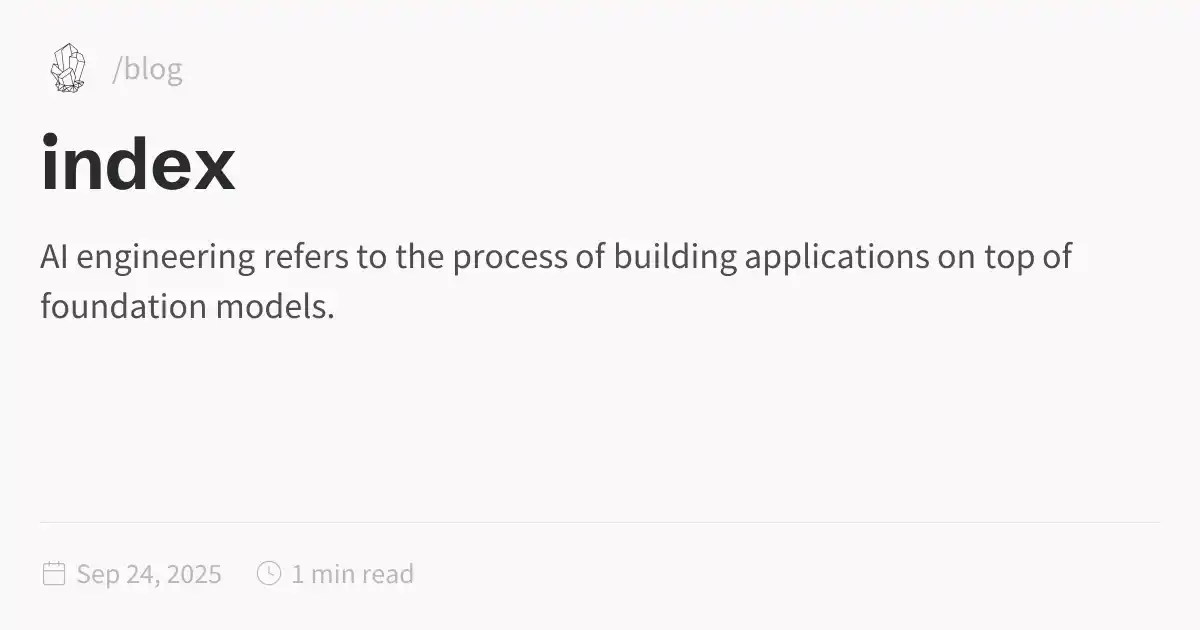
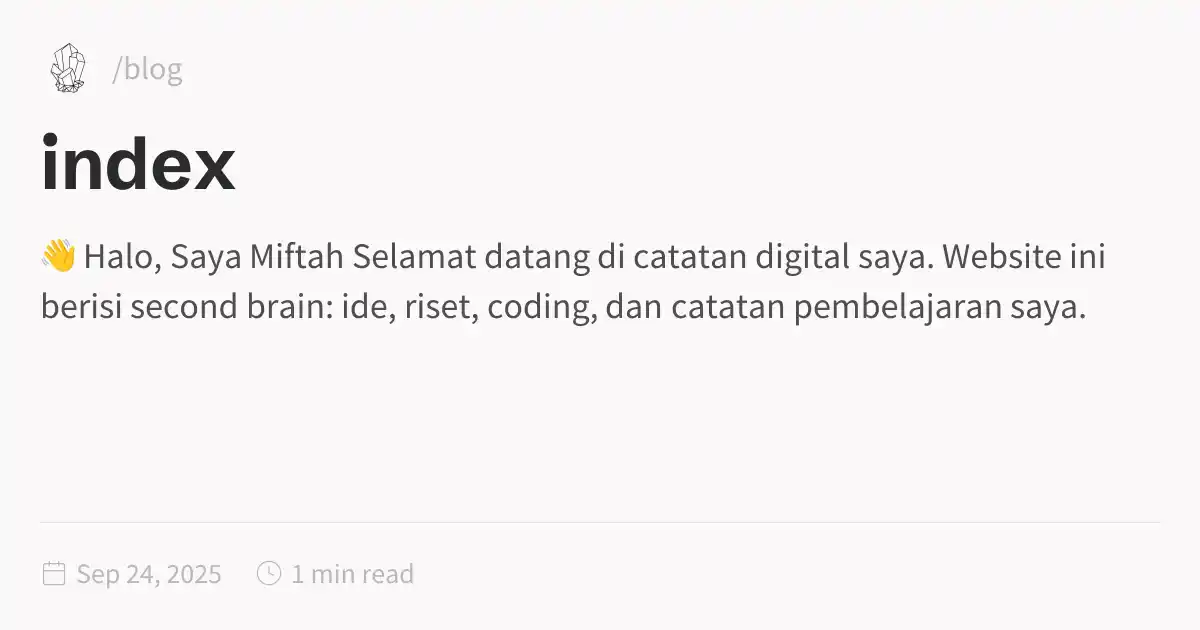
deploy: c118fce0ec75b7a2ecd933a7cae79ffbfc5e2ab5

Changed region(s): [[0.0308, 0.3619, 0.925, 0.5127]]

diff --git a/index.html b/index.html
@@ -1,5 +1,5 @@
 <!DOCTYPE html>
-<html lang="en" dir="ltr"><head><title>index</title><meta charset="utf-8"/><link rel="preconnect" href="https://fonts.googleapis.com"/><link rel="preconnect" href="https://fonts.gstatic.com"/><link rel="stylesheet" href="https://fonts.googleapis.com/css2?family=Schibsted Grotesk:wght@400;700&amp;family=Source Sans Pro:ital,wght@0,400;0,600;1,400;1,600&amp;family=IBM Plex Mono:wght@400;600&amp;display=swap"/><link rel="preconnect" href="https://cdnjs.cloudflare.com" crossorigin="anonymous"/><meta name="viewport" content="width=device-width, initial-scale=1.0"/><meta name="og:site_name" content="Quartz 4"/><meta property="og:title" content="index"/><meta property="og:type" content="website"/><meta name="twitter:card" content="summary_large_image"/><meta name="twitter:title" content="index"/><meta name="twitter:description" content="AI engineering refers to the process of building applications on top of foundation models."/><meta property="og:description" content="AI engineering refers to the process of building applications on top of foundation models."/><meta property="og:image:alt" content="AI engineering refers to the process of building applications on top of foundation models."/><meta property="twitter:domain" content="/blog"/><meta property="og:url" content="https://blog/index"/><meta property="twitter:url" content="https://blog/index"/><link rel="icon" href="./static/icon.png"/><meta name="description" content="AI engineering refers to the process of building applications on top of foundation models."/><meta name="generator" content="Quartz"/><link href="./index.css" rel="stylesheet" type="text/css" spa-preserve/><style>.expand-button {
+<html lang="en" dir="ltr"><head><title>index</title><meta charset="utf-8"/><link rel="preconnect" href="https://fonts.googleapis.com"/><link rel="preconnect" href="https://fonts.gstatic.com"/><link rel="stylesheet" href="https://fonts.googleapis.com/css2?family=Schibsted Grotesk:wght@400;700&amp;family=Source Sans Pro:ital,wght@0,400;0,600;1,400;1,600&amp;family=IBM Plex Mono:wght@400;600&amp;display=swap"/><link rel="preconnect" href="https://cdnjs.cloudflare.com" crossorigin="anonymous"/><meta name="viewport" content="width=device-width, initial-scale=1.0"/><meta name="og:site_name" content="Quartz 4"/><meta property="og:title" content="index"/><meta property="og:type" content="website"/><meta name="twitter:card" content="summary_large_image"/><meta name="twitter:title" content="index"/><meta name="twitter:description" content="👋 Halo, Saya Miftah Selamat datang di catatan digital saya. Website ini berisi second brain: ide, riset, coding, dan catatan pembelajaran saya."/><meta property="og:description" content="👋 Halo, Saya Miftah Selamat datang di catatan digital saya. Website ini berisi second brain: ide, riset, coding, dan catatan pembelajaran saya."/><meta property="og:image:alt" content="👋 Halo, Saya Miftah Selamat datang di catatan digital saya. Website ini berisi second brain: ide, riset, coding, dan catatan pembelajaran saya."/><meta property="twitter:domain" content="/blog"/><meta property="og:url" content="https://blog/index"/><meta property="twitter:url" content="https://blog/index"/><link rel="icon" href="./static/icon.png"/><meta name="description" content="👋 Halo, Saya Miftah Selamat datang di catatan digital saya. Website ini berisi second brain: ide, riset, coding, dan catatan pembelajaran saya."/><meta name="generator" content="Quartz"/><link href="./index.css" rel="stylesheet" type="text/css" spa-preserve/><style>.expand-button {
   position: absolute;
   display: flex;
   float: right;
@@ -116,18 +116,15 @@ pre:hover > .expand-button {
   padding: 0 12px;
   font-size: 14px;
 }
[1 lines of base64/hex data omitted]
-models.</p>
-<p>If traditional ML engineering involves developing ML models, AI engineering lever‐
-ages existing ones. The availability and accessibility of powerful foundation models
-lead to three factors that, together, create ideal conditions for the rapid growth of AI
-engineering as a discipline:
-Factor 1: General-purpose AI capabilities
-Factor 2: Increased AI investments</p>
-<blockquote>
-<p>According to WallStreetZen, companies that mentioned AI in their earning calls saw their stock price increase more than those that didn’t: an average of a 4.6% increase compared to 2.4%. It’s unclear whether it’s causation (AI makes these companies more successful) or correlation (companies are successful because they are quick to adapt to new technologies).</p>
-</blockquote>
-<p>Factor 3: Low entrance barrier to building AI applications</p></article><hr/><div class="page-footer"></div></div><div class="right sidebar"><div class="graph"><h3>Graph View</h3><div class="graph-outer"><div class="graph-container" data-cfg="{&quot;drag&quot;:true,&quot;zoom&quot;:true,&quot;depth&quot;:1,&quot;scale&quot;:1.1,&quot;repelForce&quot;:0.5,&quot;centerForce&quot;:0.3,&quot;linkDistance&quot;:30,&quot;fontSize&quot;:0.6,&quot;opacityScale&quot;:1,&quot;showTags&quot;:true,&quot;removeTags&quot;:[],&quot;focusOnHover&quot;:false,&quot;enableRadial&quot;:false}"></div><button class="global-graph-icon" aria-label="Global Graph"><svg version="1.1" xmlns="http://www.w3.org/2000/svg" xmlns:xlink="http://www.w3.org/1999/xlink" x="0px" y="0px" viewBox="0 0 55 55" fill="currentColor" xml:space="preserve"><path d="M49,0c-3.309,0-6,2.691-6,6c0,1.035,0.263,2.009,0.726,2.86l-9.829,9.829C32.542,17.634,30.846,17,29,17
[1 lines of base64/hex data omitted]
+<p>Selamat datang di catatan digital saya.<br/>
+Website ini berisi second brain: ide, riset, coding, dan catatan pembelajaran saya.</p>
+<h2 id="-mulai-baca">📚 Mulai Baca<a role="anchor" aria-hidden="true" tabindex="-1" data-no-popover="true" href="#-mulai-baca" class="internal"><svg width="18" height="18" viewBox="0 0 24 24" fill="none" stroke="currentColor" stroke-width="2" stroke-linecap="round" stroke-linejoin="round"><path d="M10 13a5 5 0 0 0 7.54.54l3-3a5 5 0 0 0-7.07-7.07l-1.72 1.71"></path><path d="M14 11a5 5 0 0 0-7.54-.54l-3 3a5 5 0 0 0 7.07 7.07l1.71-1.71"></path></svg></a></h2>
+<ul>
+<li><a href="./coding/" class="internal alias" data-slug="coding/index">Catatan Coding</a></li>
+<li><a href="./riset/" class="internal alias" data-slug="riset/index">Riset Akademik</a></li>
+<li><a href="./journal/" class="internal alias" data-slug="journal/index">Jurnal Pribadi</a></li>
+</ul></article><hr/><div class="page-footer"></div></div><div class="right sidebar"><div class="graph"><h3>Graph View</h3><div class="graph-outer"><div class="graph-container" data-cfg="{&quot;drag&quot;:true,&quot;zoom&quot;:true,&quot;depth&quot;:1,&quot;scale&quot;:1.1,&quot;repelForce&quot;:0.5,&quot;centerForce&quot;:0.3,&quot;linkDistance&quot;:30,&quot;fontSize&quot;:0.6,&quot;opacityScale&quot;:1,&quot;showTags&quot;:true,&quot;removeTags&quot;:[],&quot;focusOnHover&quot;:false,&quot;enableRadial&quot;:false}"></div><button class="global-graph-icon" aria-label="Global Graph"><svg version="1.1" xmlns="http://www.w3.org/2000/svg" xmlns:xlink="http://www.w3.org/1999/xlink" x="0px" y="0px" viewBox="0 0 55 55" fill="currentColor" xml:space="preserve"><path d="M49,0c-3.309,0-6,2.691-6,6c0,1.035,0.263,2.009,0.726,2.86l-9.829,9.829C32.542,17.634,30.846,17,29,17
                 s-3.542,0.634-4.898,1.688l-7.669-7.669C16.785,10.424,17,9.74,17,9c0-2.206-1.794-4-4-4S9,6.794,9,9s1.794,4,4,4
                 c0.74,0,1.424-0.215,2.019-0.567l7.669,7.669C21.634,21.458,21,23.154,21,25s0.634,3.542,1.688,4.897L10.024,42.562
                 C8.958,41.595,7.549,41,6,41c-3.309,0-6,2.691-6,6s2.691,6,6,6s6-2.691,6-6c0-1.035-0.263-2.009-0.726-2.86l12.829-12.829
@@ -137,6 +134,6 @@ Factor 2: Increased AI investments</p>
                 C46.042,11.405,47.451,12,49,12c3.309,0,6-2.691,6-6S52.309,0,49,0z M11,9c0-1.103,0.897-2,2-2s2,0.897,2,2s-0.897,2-2,2
                 S11,10.103,11,9z M6,51c-2.206,0-4-1.794-4-4s1.794-4,4-4s4,1.794,4,4S8.206,51,6,51z M33,49c0,2.206-1.794,4-4,4s-4-1.794-4-4
                 s1.794-4,4-4S33,46.794,33,49z M29,31c-3.309,0-6-2.691-6-6s2.691-6,6-6s6,2.691,6,6S32.309,31,29,31z M47,41c0,1.103-0.897,2-2,2
-                s-2-0.897-2-2s0.897-2,2-2S47,39.897,47,41z M49,10c-2.206,0-4-1.794-4-4s1.794-4,4-4s4,1.794,4,4S51.206,10,49,10z"></path></svg></button></div><div class="global-graph-outer"><div class="global-graph-container" data-cfg="{&quot;drag&quot;:true,&quot;zoom&quot;:true,&quot;depth&quot;:-1,&quot;scale&quot;:0.9,&quot;repelForce&quot;:0.5,&quot;centerForce&quot;:0.2,&quot;linkDistance&quot;:30,&quot;fontSize&quot;:0.6,&quot;opacityScale&quot;:1,&quot;showTags&quot;:true,&quot;removeTags&quot;:[],&quot;focusOnHover&quot;:true,&quot;enableRadial&quot;:true}"></div></div></div></div><footer class><p>Created with <a href="https://quartz.jzhao.xyz/">Quartz v4.5.2</a> © 2025</p><ul><li><a href="https://github.com/jackyzha0/quartz">GitHub</a></li><li><a href="https://discord.gg/cRFFHYye7t">Discord Community</a></li></ul></footer></div></div></body><script type="application/javascript">function n(){let t=this.parentElement;t.classList.toggle("is-collapsed");let e=t.getElementsByClassName("callout-content")[0];if(!e)return;let l=t.classList.contains("is-collapsed");e.style.gridTemplateRows=l?"0fr":"1fr"}function c(){let t=document.getElementsByClassName("callout is-collapsible");for(let e of t){let l=e.getElementsByClassName("callout-title")[0],s=e.getElementsByClassName("callout-content")[0];if(!l||!s)continue;l.addEventListener("click",n),window.addCleanup(()=>l.removeEventListener("click",n));let o=e.classList.contains("is-collapsed");s.style.gridTemplateRows=o?"0fr":"1fr"}}document.addEventListener("nav",c);
+                s-2-0.897-2-2s0.897-2,2-2S47,39.897,47,41z M49,10c-2.206,0-4-1.794-4-4s1.794-4,4-4s4,1.794,4,4S51.206,10,49,10z"></path></svg></button></div><div class="global-graph-outer"><div class="global-graph-container" data-cfg="{&quot;drag&quot;:true,&quot;zoom&quot;:true,&quot;depth&quot;:-1,&quot;scale&quot;:0.9,&quot;repelForce&quot;:0.5,&quot;centerForce&quot;:0.2,&quot;linkDistance&quot;:30,&quot;fontSize&quot;:0.6,&quot;opacityScale&quot;:1,&quot;showTags&quot;:true,&quot;removeTags&quot;:[],&quot;focusOnHover&quot;:true,&quot;enableRadial&quot;:true}"></div></div></div><div class="toc desktop-only"><button type="button" class="toc-header" aria-controls="toc-0" aria-expanded="true"><h3>Table of Contents</h3><svg xmlns="http://www.w3.org/2000/svg" width="24" height="24" viewBox="0 0 24 24" fill="none" stroke="currentColor" stroke-width="2" stroke-linecap="round" stroke-linejoin="round" class="fold"><polyline points="6 9 12 15 18 9"></polyline></svg></button><ul id="list-1" class="toc-content overflow"><li class="depth-0"><a href="#-halo-saya-miftah" data-for="-halo-saya-miftah">👋 Halo, Saya Miftah</a></li><li class="depth-1"><a href="#-mulai-baca" data-for="-mulai-baca">📚 Mulai Baca</a></li><li class="overflow-end"></li></ul></div></div><footer class><p>Created with <a href="https://quartz.jzhao.xyz/">Quartz v4.5.2</a> © 2025</p><ul><li><a href="https://github.com/jackyzha0/quartz">GitHub</a></li><li><a href="https://discord.gg/cRFFHYye7t">Discord Community</a></li></ul></footer></div></div></body><script type="application/javascript">function n(){let t=this.parentElement;t.classList.toggle("is-collapsed");let e=t.getElementsByClassName("callout-content")[0];if(!e)return;let l=t.classList.contains("is-collapsed");e.style.gridTemplateRows=l?"0fr":"1fr"}function c(){let t=document.getElementsByClassName("callout is-collapsible");for(let e of t){let l=e.getElementsByClassName("callout-title")[0],s=e.getElementsByClassName("callout-content")[0];if(!l||!s)continue;l.addEventListener("click",n),window.addCleanup(()=>l.removeEventListener("click",n));let o=e.classList.contains("is-collapsed");s.style.gridTemplateRows=o?"0fr":"1fr"}}document.addEventListener("nav",c);
 </script><script type="module">function f(i,e){if(!i)return;function r(o){o.target===this&&(o.preventDefault(),o.stopPropagation(),e())}function t(o){o.key.startsWith("Esc")&&(o.preventDefault(),e())}i?.addEventListener("click",r),window.addCleanup(()=>i?.removeEventListener("click",r)),document.addEventListener("keydown",t),window.addCleanup(()=>document.removeEventListener("keydown",t))}function y(i){for(;i.firstChild;)i.removeChild(i.firstChild)}var h=class{constructor(e,r){this.container=e;this.content=r;this.setupEventListeners(),this.setupNavigationControls(),this.resetTransform()}isDragging=!1;startPan={x:0,y:0};currentPan={x:0,y:0};scale=1;MIN_SCALE=.5;MAX_SCALE=3;cleanups=[];setupEventListeners(){let e=this.onMouseDown.bind(this),r=this.onMouseMove.bind(this),t=this.onMouseUp.bind(this),o=this.resetTransform.bind(this);this.container.addEventListener("mousedown",e),document.addEventListener("mousemove",r),document.addEventListener("mouseup",t),window.addEventListener("resize",o),this.cleanups.push(()=>this.container.removeEventListener("mousedown",e),()=>document.removeEventListener("mousemove",r),()=>document.removeEventListener("mouseup",t),()=>window.removeEventListener("resize",o))}cleanup(){for(let e of this.cleanups)e()}setupNavigationControls(){let e=document.createElement("div");e.className="mermaid-controls";let r=this.createButton("+",()=>this.zoom(.1)),t=this.createButton("-",()=>this.zoom(-.1)),o=this.createButton("Reset",()=>this.resetTransform());e.appendChild(t),e.appendChild(o),e.appendChild(r),this.container.appendChild(e)}createButton(e,r){let t=document.createElement("button");return t.textContent=e,t.className="mermaid-control-button",t.addEventListener("click",r),window.addCleanup(()=>t.removeEventListener("click",r)),t}onMouseDown(e){e.button===0&&(this.isDragging=!0,this.startPan={x:e.clientX-this.currentPan.x,y:e.clientY-this.currentPan.y},this.container.style.cursor="grabbing")}onMouseMove(e){this.isDragging&&(e.preventDefault(),this.currentPan={x:e.clientX-this.startPan.x,y:e.clientY-this.startPan.y},this.updateTransform())}onMouseUp(){this.isDragging=!1,this.container.style.cursor="grab"}zoom(e){let r=Math.min(Math.max(this.scale+e,this.MIN_SCALE),this.MAX_SCALE),t=this.content.getBoundingClientRect(),o=t.width/2,n=t.height/2,c=r-this.scale;this.currentPan.x-=o*c,this.currentPan.y-=n*c,this.scale=r,this.updateTransform()}updateTransform(){this.content.style.transform=`translate(${this.currentPan.x}px, ${this.currentPan.y}px) scale(${this.scale})`}resetTransform(){this.scale=1;let e=this.content.querySelector("svg");this.currentPan={x:e.getBoundingClientRect().width/2,y:e.getBoundingClientRect().height/2},this.updateTransform()}},C=["--secondary","--tertiary","--gray","--light","--lightgray","--highlight","--dark","--darkgray","--codeFont"],E;document.addEventListener("nav",async()=>{let e=document.querySelector(".center").querySelectorAll("code.mermaid");if(e.length===0)return;E||=await import("https://cdnjs.cloudflare.com/ajax/libs/mermaid/11.4.0/mermaid.esm.min.mjs");let r=E.default,t=new WeakMap;for(let n of e)t.set(n,n.innerText);async function o(){for(let s of e){s.removeAttribute("data-processed");let a=t.get(s);a&&(s.innerHTML=a)}let n=C.reduce((s,a)=>(s[a]=window.getComputedStyle(document.documentElement).getPropertyValue(a),s),{}),c=document.documentElement.getAttribute("saved-theme")==="dark";r.initialize({startOnLoad:!1,securityLevel:"loose",theme:c?"dark":"base",themeVariables:{fontFamily:n["--codeFont"],primaryColor:n["--light"],primaryTextColor:n["--darkgray"],primaryBorderColor:n["--tertiary"],lineColor:n["--darkgray"],secondaryColor:n["--secondary"],tertiaryColor:n["--tertiary"],clusterBkg:n["--light"],edgeLabelBackground:n["--highlight"]}}),await r.run({nodes:e})}await o(),document.addEventListener("themechange",o),window.addCleanup(()=>document.removeEventListener("themechange",o));for(let n=0;n<e.length;n++){let v=function(){let g=l.querySelector("#mermaid-space"),m=l.querySelector(".mermaid-content");if(!m)return;y(m);let w=c.querySelector("svg").cloneNode(!0);m.appendChild(w),l.classList.add("active"),g.style.cursor="grab",u=new h(g,m)},M=function(){l.classList.remove("active"),u?.cleanup(),u=null},c=e[n],s=c.parentElement,a=s.querySelector(".clipboard-button"),d=s.querySelector(".expand-button"),p=window.getComputedStyle(a),L=a.offsetWidth+parseFloat(p.marginLeft||"0")+parseFloat(p.marginRight||"0");d.style.right=`calc(${L}px + 0.3rem)`,s.prepend(d);let l=s.querySelector("#mermaid-container");if(!l)return;let u=null;d.addEventListener("click",v),f(l,M),window.addCleanup(()=>{u?.cleanup(),d.removeEventListener("click",v)})}});
 </script><script src="https://cdn.jsdelivr.net/npm/katex@0.16.11/dist/contrib/copy-tex.min.js" type="application/javascript"></script><script src="./postscript.js" type="module"></script></html>

diff --git a/test/index.html b/test/index.html
@@ -116,6 +116,6 @@ pre:hover > .expand-button {
   padding: 0 12px;
   font-size: 14px;
 }
[2 lines of base64/hex data omitted]
 </script><script type="module">function f(i,e){if(!i)return;function r(o){o.target===this&&(o.preventDefault(),o.stopPropagation(),e())}function t(o){o.key.startsWith("Esc")&&(o.preventDefault(),e())}i?.addEventListener("click",r),window.addCleanup(()=>i?.removeEventListener("click",r)),document.addEventListener("keydown",t),window.addCleanup(()=>document.removeEventListener("keydown",t))}function y(i){for(;i.firstChild;)i.removeChild(i.firstChild)}var h=class{constructor(e,r){this.container=e;this.content=r;this.setupEventListeners(),this.setupNavigationControls(),this.resetTransform()}isDragging=!1;startPan={x:0,y:0};currentPan={x:0,y:0};scale=1;MIN_SCALE=.5;MAX_SCALE=3;cleanups=[];setupEventListeners(){let e=this.onMouseDown.bind(this),r=this.onMouseMove.bind(this),t=this.onMouseUp.bind(this),o=this.resetTransform.bind(this);this.container.addEventListener("mousedown",e),document.addEventListener("mousemove",r),document.addEventListener("mouseup",t),window.addEventListener("resize",o),this.cleanups.push(()=>this.container.removeEventListener("mousedown",e),()=>document.removeEventListener("mousemove",r),()=>document.removeEventListener("mouseup",t),()=>window.removeEventListener("resize",o))}cleanup(){for(let e of this.cleanups)e()}setupNavigationControls(){let e=document.createElement("div");e.className="mermaid-controls";let r=this.createButton("+",()=>this.zoom(.1)),t=this.createButton("-",()=>this.zoom(-.1)),o=this.createButton("Reset",()=>this.resetTransform());e.appendChild(t),e.appendChild(o),e.appendChild(r),this.container.appendChild(e)}createButton(e,r){let t=document.createElement("button");return t.textContent=e,t.className="mermaid-control-button",t.addEventListener("click",r),window.addCleanup(()=>t.removeEventListener("click",r)),t}onMouseDown(e){e.button===0&&(this.isDragging=!0,this.startPan={x:e.clientX-this.currentPan.x,y:e.clientY-this.currentPan.y},this.container.style.cursor="grabbing")}onMouseMove(e){this.isDragging&&(e.preventDefault(),this.currentPan={x:e.clientX-this.startPan.x,y:e.clientY-this.startPan.y},this.updateTransform())}onMouseUp(){this.isDragging=!1,this.container.style.cursor="grab"}zoom(e){let r=Math.min(Math.max(this.scale+e,this.MIN_SCALE),this.MAX_SCALE),t=this.content.getBoundingClientRect(),o=t.width/2,n=t.height/2,c=r-this.scale;this.currentPan.x-=o*c,this.currentPan.y-=n*c,this.scale=r,this.updateTransform()}updateTransform(){this.content.style.transform=`translate(${this.currentPan.x}px, ${this.currentPan.y}px) scale(${this.scale})`}resetTransform(){this.scale=1;let e=this.content.querySelector("svg");this.currentPan={x:e.getBoundingClientRect().width/2,y:e.getBoundingClientRect().height/2},this.updateTransform()}},C=["--secondary","--tertiary","--gray","--light","--lightgray","--highlight","--dark","--darkgray","--codeFont"],E;document.addEventListener("nav",async()=>{let e=document.querySelector(".center").querySelectorAll("code.mermaid");if(e.length===0)return;E||=await import("https://cdnjs.cloudflare.com/ajax/libs/mermaid/11.4.0/mermaid.esm.min.mjs");let r=E.default,t=new WeakMap;for(let n of e)t.set(n,n.innerText);async function o(){for(let s of e){s.removeAttribute("data-processed");let a=t.get(s);a&&(s.innerHTML=a)}let n=C.reduce((s,a)=>(s[a]=window.getComputedStyle(document.documentElement).getPropertyValue(a),s),{}),c=document.documentElement.getAttribute("saved-theme")==="dark";r.initialize({startOnLoad:!1,securityLevel:"loose",theme:c?"dark":"base",themeVariables:{fontFamily:n["--codeFont"],primaryColor:n["--light"],primaryTextColor:n["--darkgray"],primaryBorderColor:n["--tertiary"],lineColor:n["--darkgray"],secondaryColor:n["--secondary"],tertiaryColor:n["--tertiary"],clusterBkg:n["--light"],edgeLabelBackground:n["--highlight"]}}),await r.run({nodes:e})}await o(),document.addEventListener("themechange",o),window.addCleanup(()=>document.removeEventListener("themechange",o));for(let n=0;n<e.length;n++){let v=function(){let g=l.querySelector("#mermaid-space"),m=l.querySelector(".mermaid-content");if(!m)return;y(m);let w=c.querySelector("svg").cloneNode(!0);m.appendChild(w),l.classList.add("active"),g.style.cursor="grab",u=new h(g,m)},M=function(){l.classList.remove("active"),u?.cleanup(),u=null},c=e[n],s=c.parentElement,a=s.querySelector(".clipboard-button"),d=s.querySelector(".expand-button"),p=window.getComputedStyle(a),L=a.offsetWidth+parseFloat(p.marginLeft||"0")+parseFloat(p.marginRight||"0");d.style.right=`calc(${L}px + 0.3rem)`,s.prepend(d);let l=s.querySelector("#mermaid-container");if(!l)return;let u=null;d.addEventListener("click",v),f(l,M),window.addCleanup(()=>{u?.cleanup(),d.removeEventListener("click",v)})}});
 </script><script src="https://cdn.jsdelivr.net/npm/katex@0.16.11/dist/contrib/copy-tex.min.js" type="application/javascript"></script><script src="../postscript.js" type="module"></script></html>

diff --git a/test/main.html b/test/main.html
@@ -116,7 +116,7 @@ pre:hover > .expand-button {
   padding: 0 12px;
   font-size: 14px;
 }
[2 lines of base64/hex data omitted]
 models.</p>
 <p>If traditional ML engineering involves developing ML models, AI engineering lever‐
 ages existing ones. The availability and accessibility of powerful foundation models
